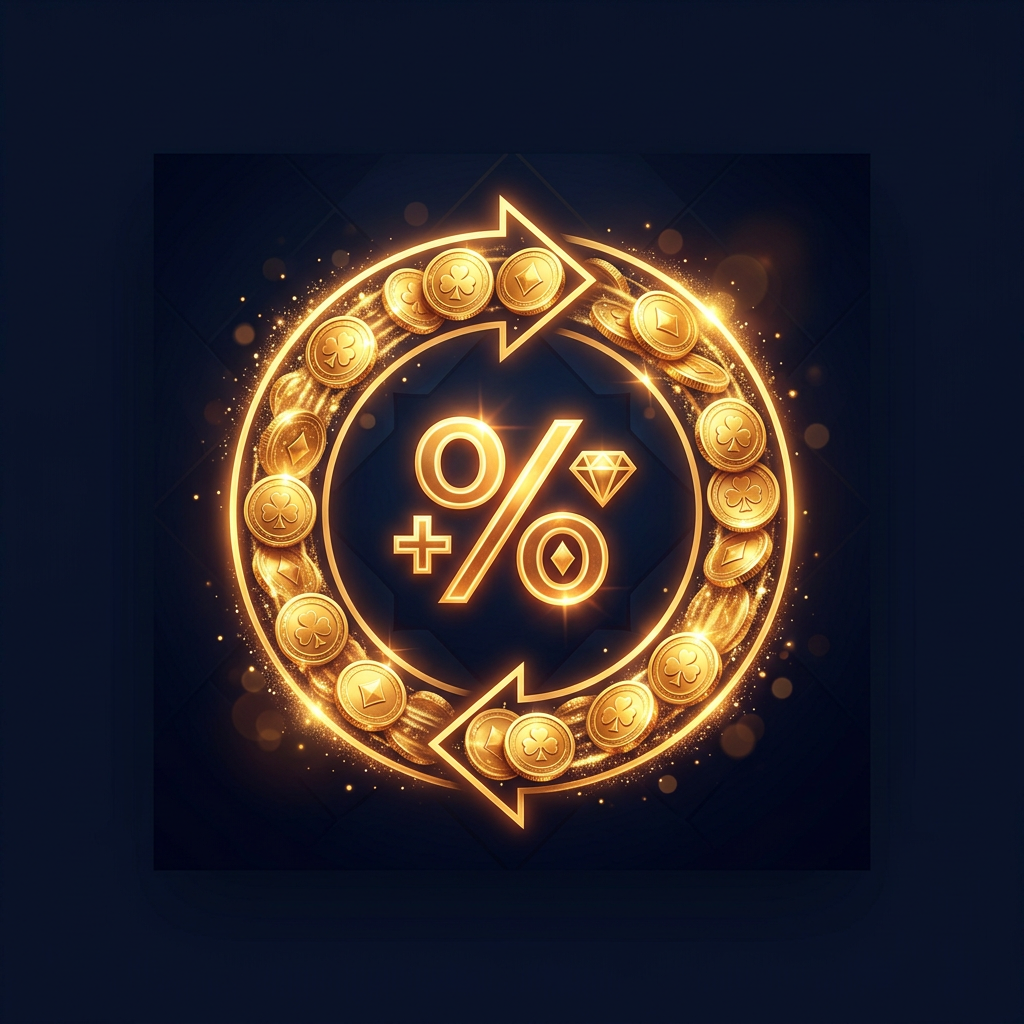
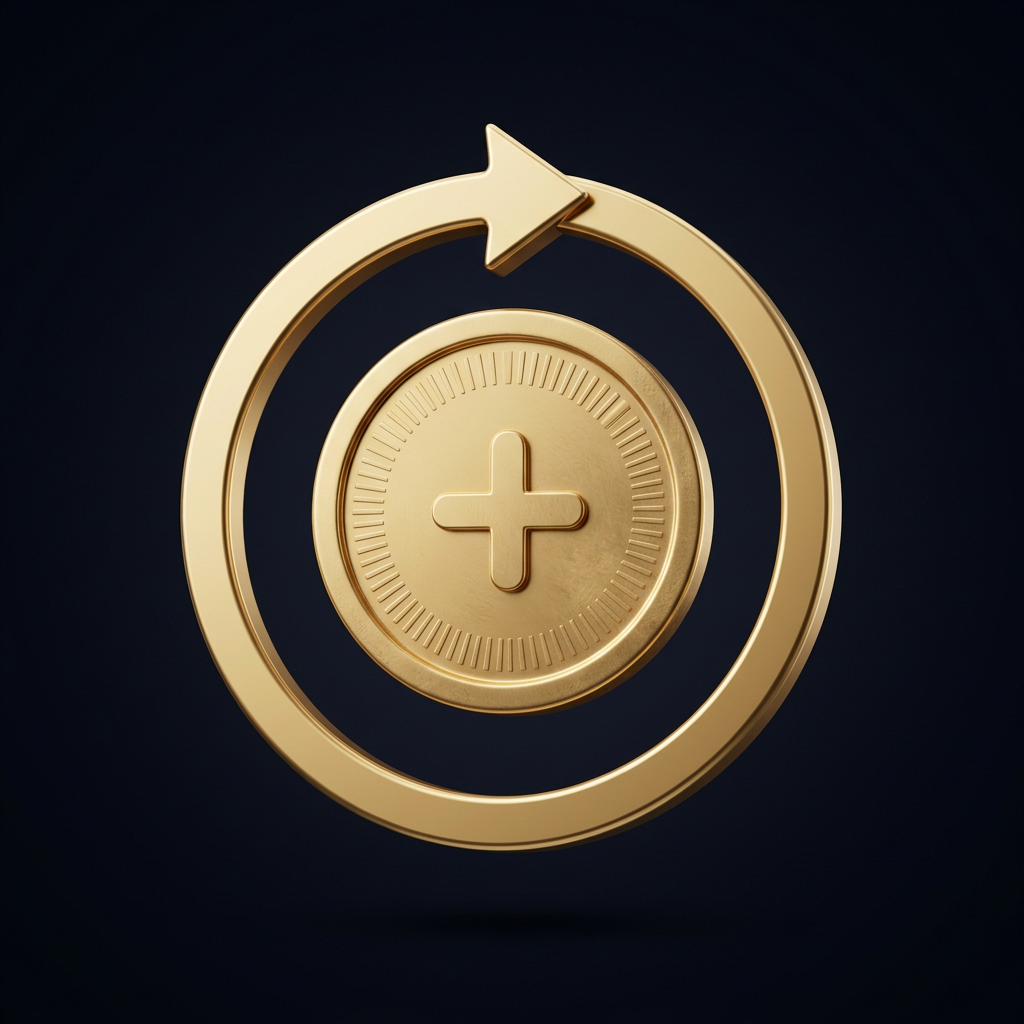
Stop chip auto-scroll, refresh campaign art with subtle card motion, tune events slider

diff --git a/components/alkanka/partner-sites.tsx b/components/alkanka/partner-sites.tsx
@@ -3,7 +3,6 @@
 import { useEffect, useMemo, useRef, useState } from 'react'
 import Image from 'next/image'
 import Link from 'next/link'
-import { Marquee } from './home/marquee'
 import { ArrowRight, ArrowUpRight, Check, CircleSlash, Clock, Copy, Crown, Gem, LayoutGrid, List, ScrollText, Search, ShieldCheck, SlidersHorizontal, Star, Zap } from 'lucide-react'
 import { cn } from '@/lib/utils'
 import { useCatalog } from './catalog-context'
@@ -529,10 +528,12 @@ export function SponsorDirectory({ sponsors = [] }: { sponsors?: Sponsor[]; main
 function ChipRail({ label, className, children }: { label: string; className?: string; children: React.ReactNode }) {
   return (
     <div className={className}>
-      <div className="md:hidden">
-        <Marquee label={label} itemClassName="flex" duration={24}>
-          {children}
-        </Marquee>
+      <div
+        role="group"
+        aria-label={label}
+        className="-mx-4 flex snap-x gap-2 overflow-x-auto px-4 pb-1 [scrollbar-width:none] md:hidden [&::-webkit-scrollbar]:hidden [&>*]:shrink-0 [&>*]:snap-start"
+      >
+        {children}
       </div>
       <div className="hidden flex-wrap gap-2 md:flex" role="group" aria-label={label}>
         {children}
@@ -803,15 +804,18 @@ function CampaignCard({ c, className }: { c: Campaign; className?: string }) {
         className,
       )}
     >
-      <div className="relative w-28 shrink-0 overflow-hidden sm:w-36">
-        <Image
-          src={campaignArt(c)}
-          alt=""
-          fill
-          sizes="144px"
-          className="object-cover transition-transform duration-700 group-hover:scale-110"
-        />
+      <div className="relative w-28 shrink-0 overflow-hidden bg-background sm:w-36">
+        <div className="coupon-art absolute inset-0">
+          <Image
+            src={campaignArt(c)}
+            alt=""
+            fill
+            sizes="144px"
+            className="object-cover transition-transform duration-700 group-hover:scale-110"
+          />
+        </div>
         <div aria-hidden="true" className="absolute inset-0 bg-gradient-to-r from-transparent via-transparent to-card/70" />
+        <span aria-hidden="true" className="coupon-sheen" />
         <span className="absolute bottom-2 left-2 rounded-md bg-background/85 px-1.5 py-0.5 text-[10px] font-bold uppercase tracking-wider text-primary backdrop-blur-sm">
           {c.tag}
         </span>

diff --git a/app/globals.css b/app/globals.css
@@ -769,3 +769,40 @@
     transition-duration: 0.01ms !important;
   }
 }
+
+/* Sponsor campaign coupon cards: staggered entrance, slow art float, hover sheen */
+.coupon-card {
+  animation: coupon-in 0.55s cubic-bezier(0.2, 0.7, 0.2, 1) both;
+}
+.coupon-card:nth-child(2) { animation-delay: 70ms; }
+.coupon-card:nth-child(3) { animation-delay: 140ms; }
+.coupon-card:nth-child(4) { animation-delay: 210ms; }
+.coupon-card:nth-child(5) { animation-delay: 280ms; }
+.coupon-card:nth-child(n + 6) { animation-delay: 350ms; }
+.coupon-art {
+  animation: coupon-float 6s ease-in-out infinite;
+}
+.coupon-card:nth-child(even) .coupon-art { animation-delay: -3s; }
+.coupon-sheen {
+  pointer-events: none;
+  position: absolute;
+  inset: 0;
+  background: linear-gradient(115deg, transparent 35%, color-mix(in oklab, var(--primary) 28%, transparent) 50%, transparent 65%);
+  transform: translateX(-120%);
+}
+.coupon-card:hover .coupon-sheen {
+  transition: transform 0.9s ease;
+  transform: translateX(120%);
+}
+@keyframes coupon-in {
+  from { opacity: 0; transform: translateY(10px); }
+  to { opacity: 1; transform: none; }
+}
+@keyframes coupon-float {
+  0%, 100% { transform: translateY(0); }
+  50% { transform: translateY(-4px); }
+}
+@media (prefers-reduced-motion: reduce) {
+  .coupon-card, .coupon-art { animation: none; }
+  .coupon-sheen { display: none; }
+}

diff --git a/components/alkanka/events.tsx b/components/alkanka/events.tsx
@@ -104,7 +104,7 @@ function EventCards() {
   return (
     <>
       <div className="-mx-4 md:hidden">
-        <Marquee label="Etkinlikler" itemClassName="w-[80vw] max-w-sm" duration={EVENTS.length * 9}>
+        <Marquee label="Etkinlikler" itemClassName="w-[72vw] max-w-xs" duration={EVENTS.length * 11}>
           {EVENTS.map(card)}
         </Marquee>
       </div>
